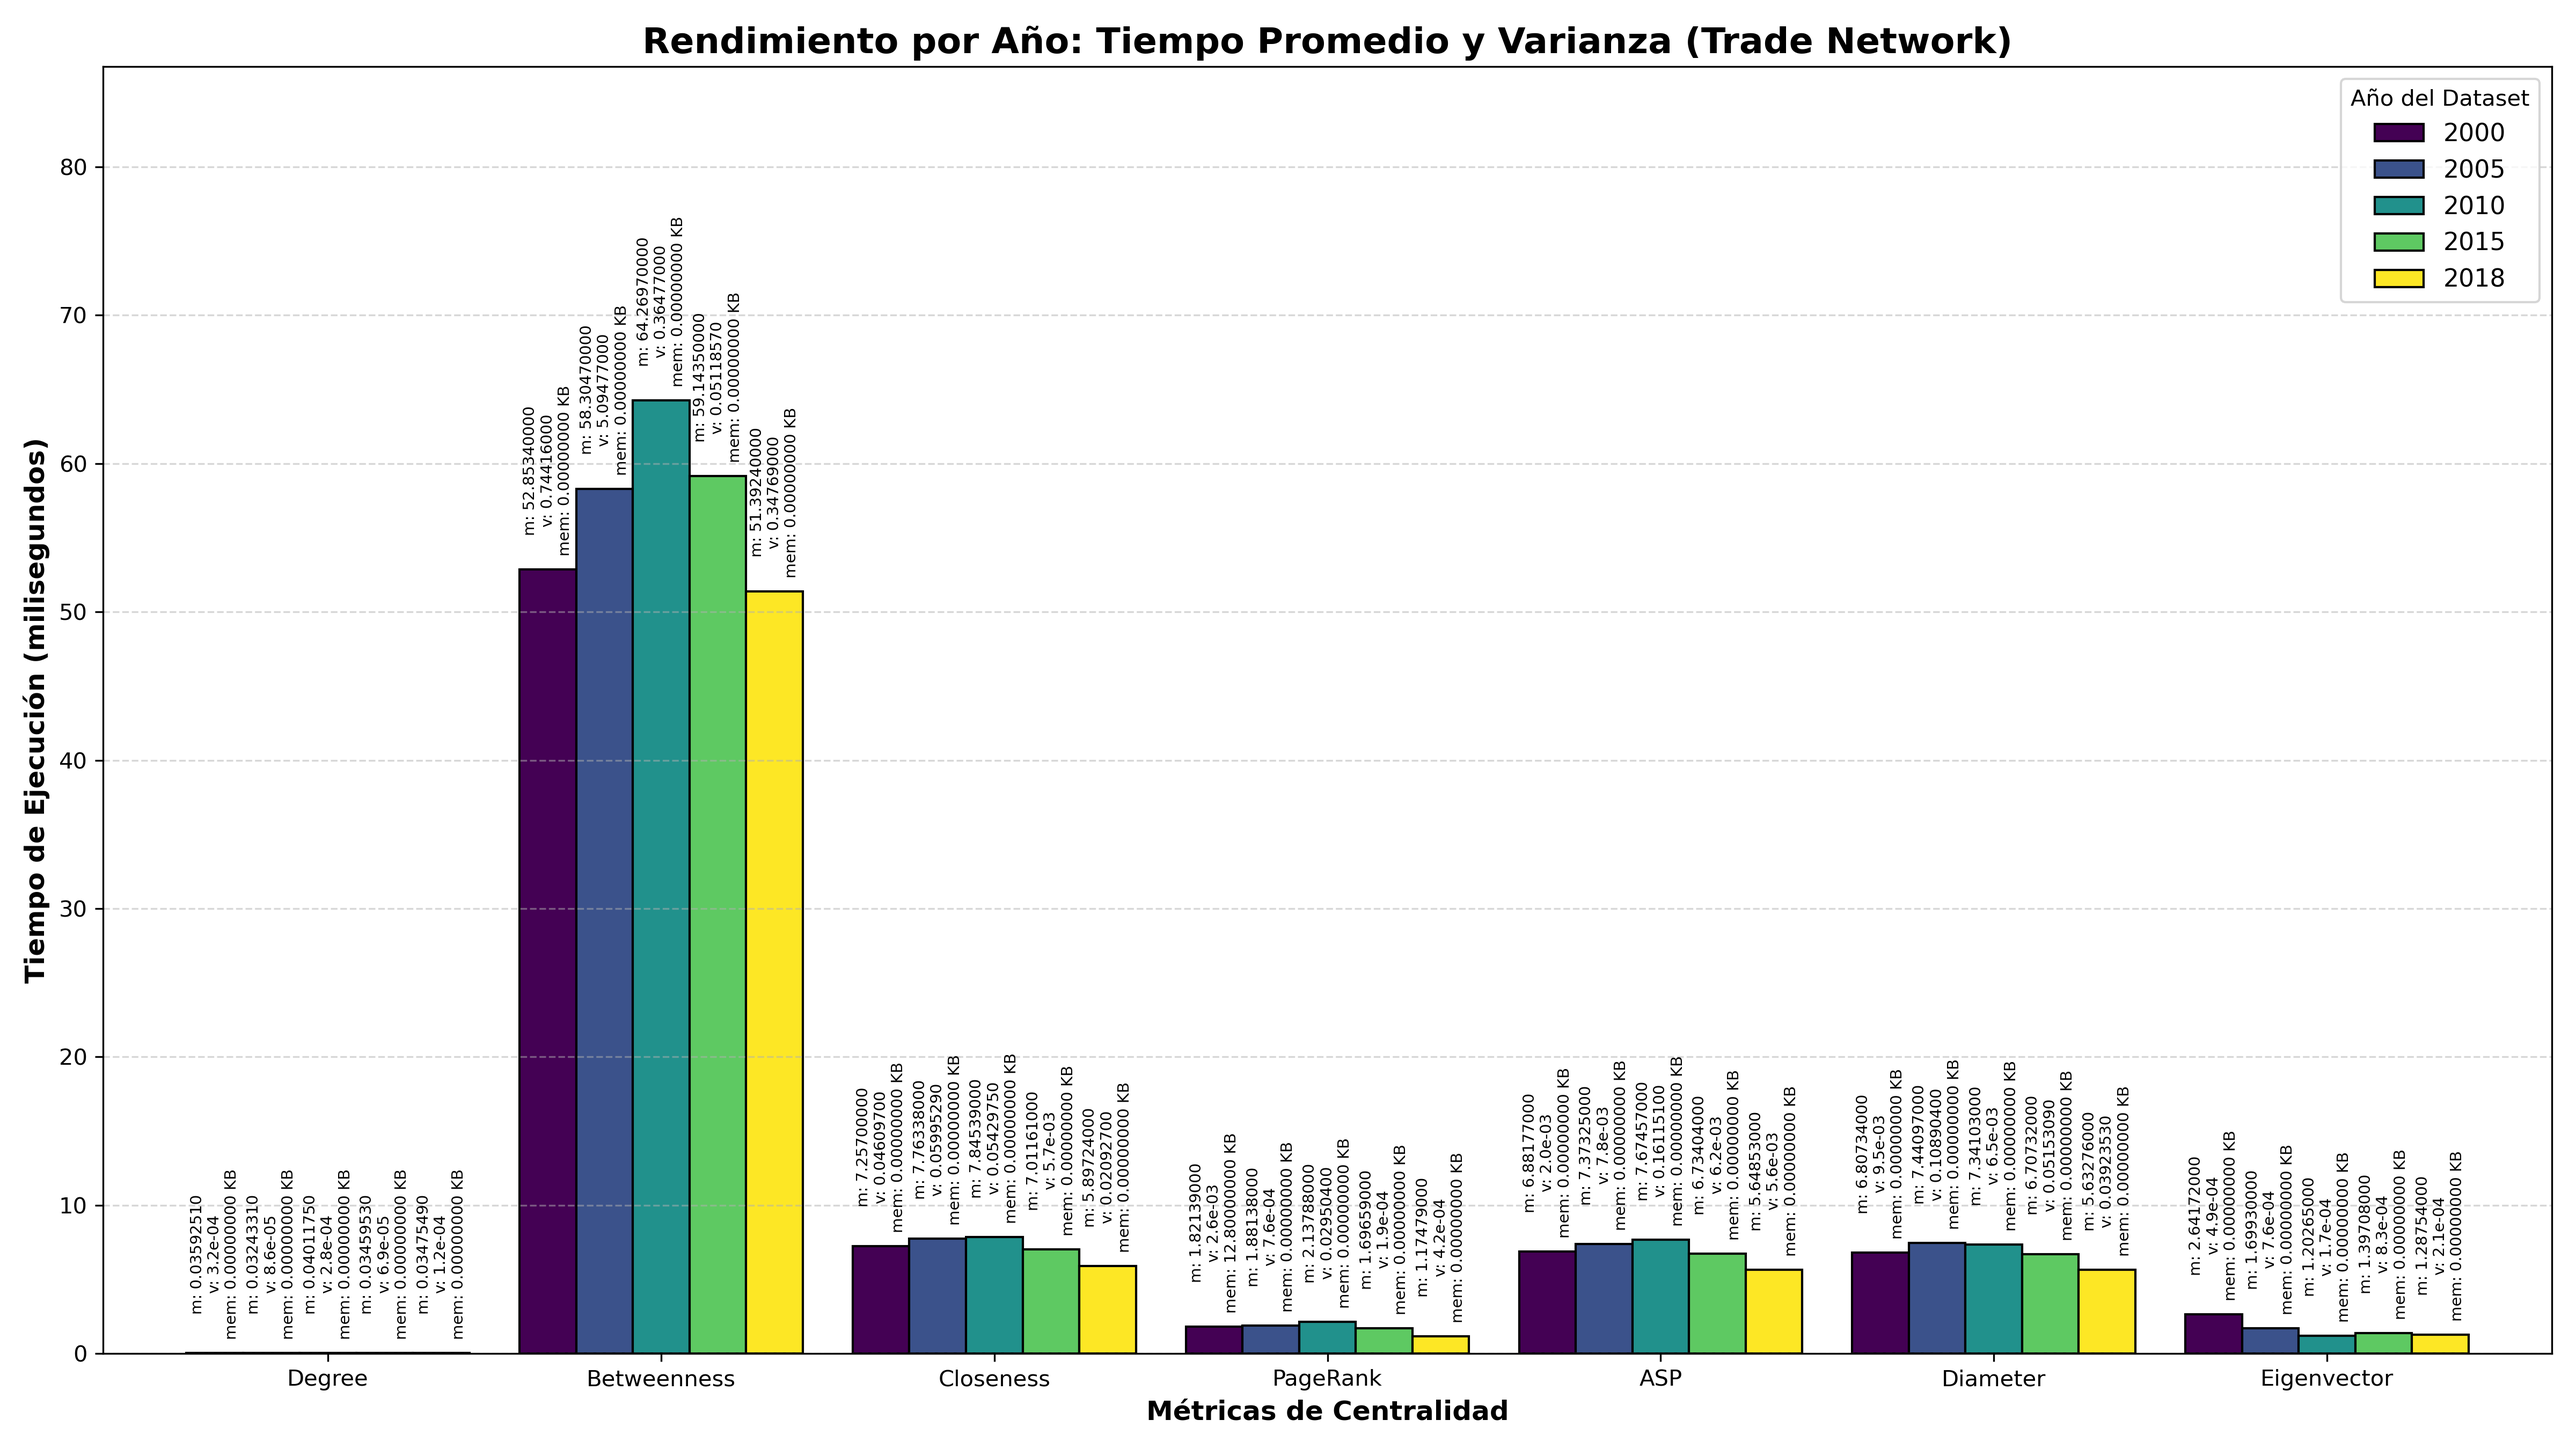
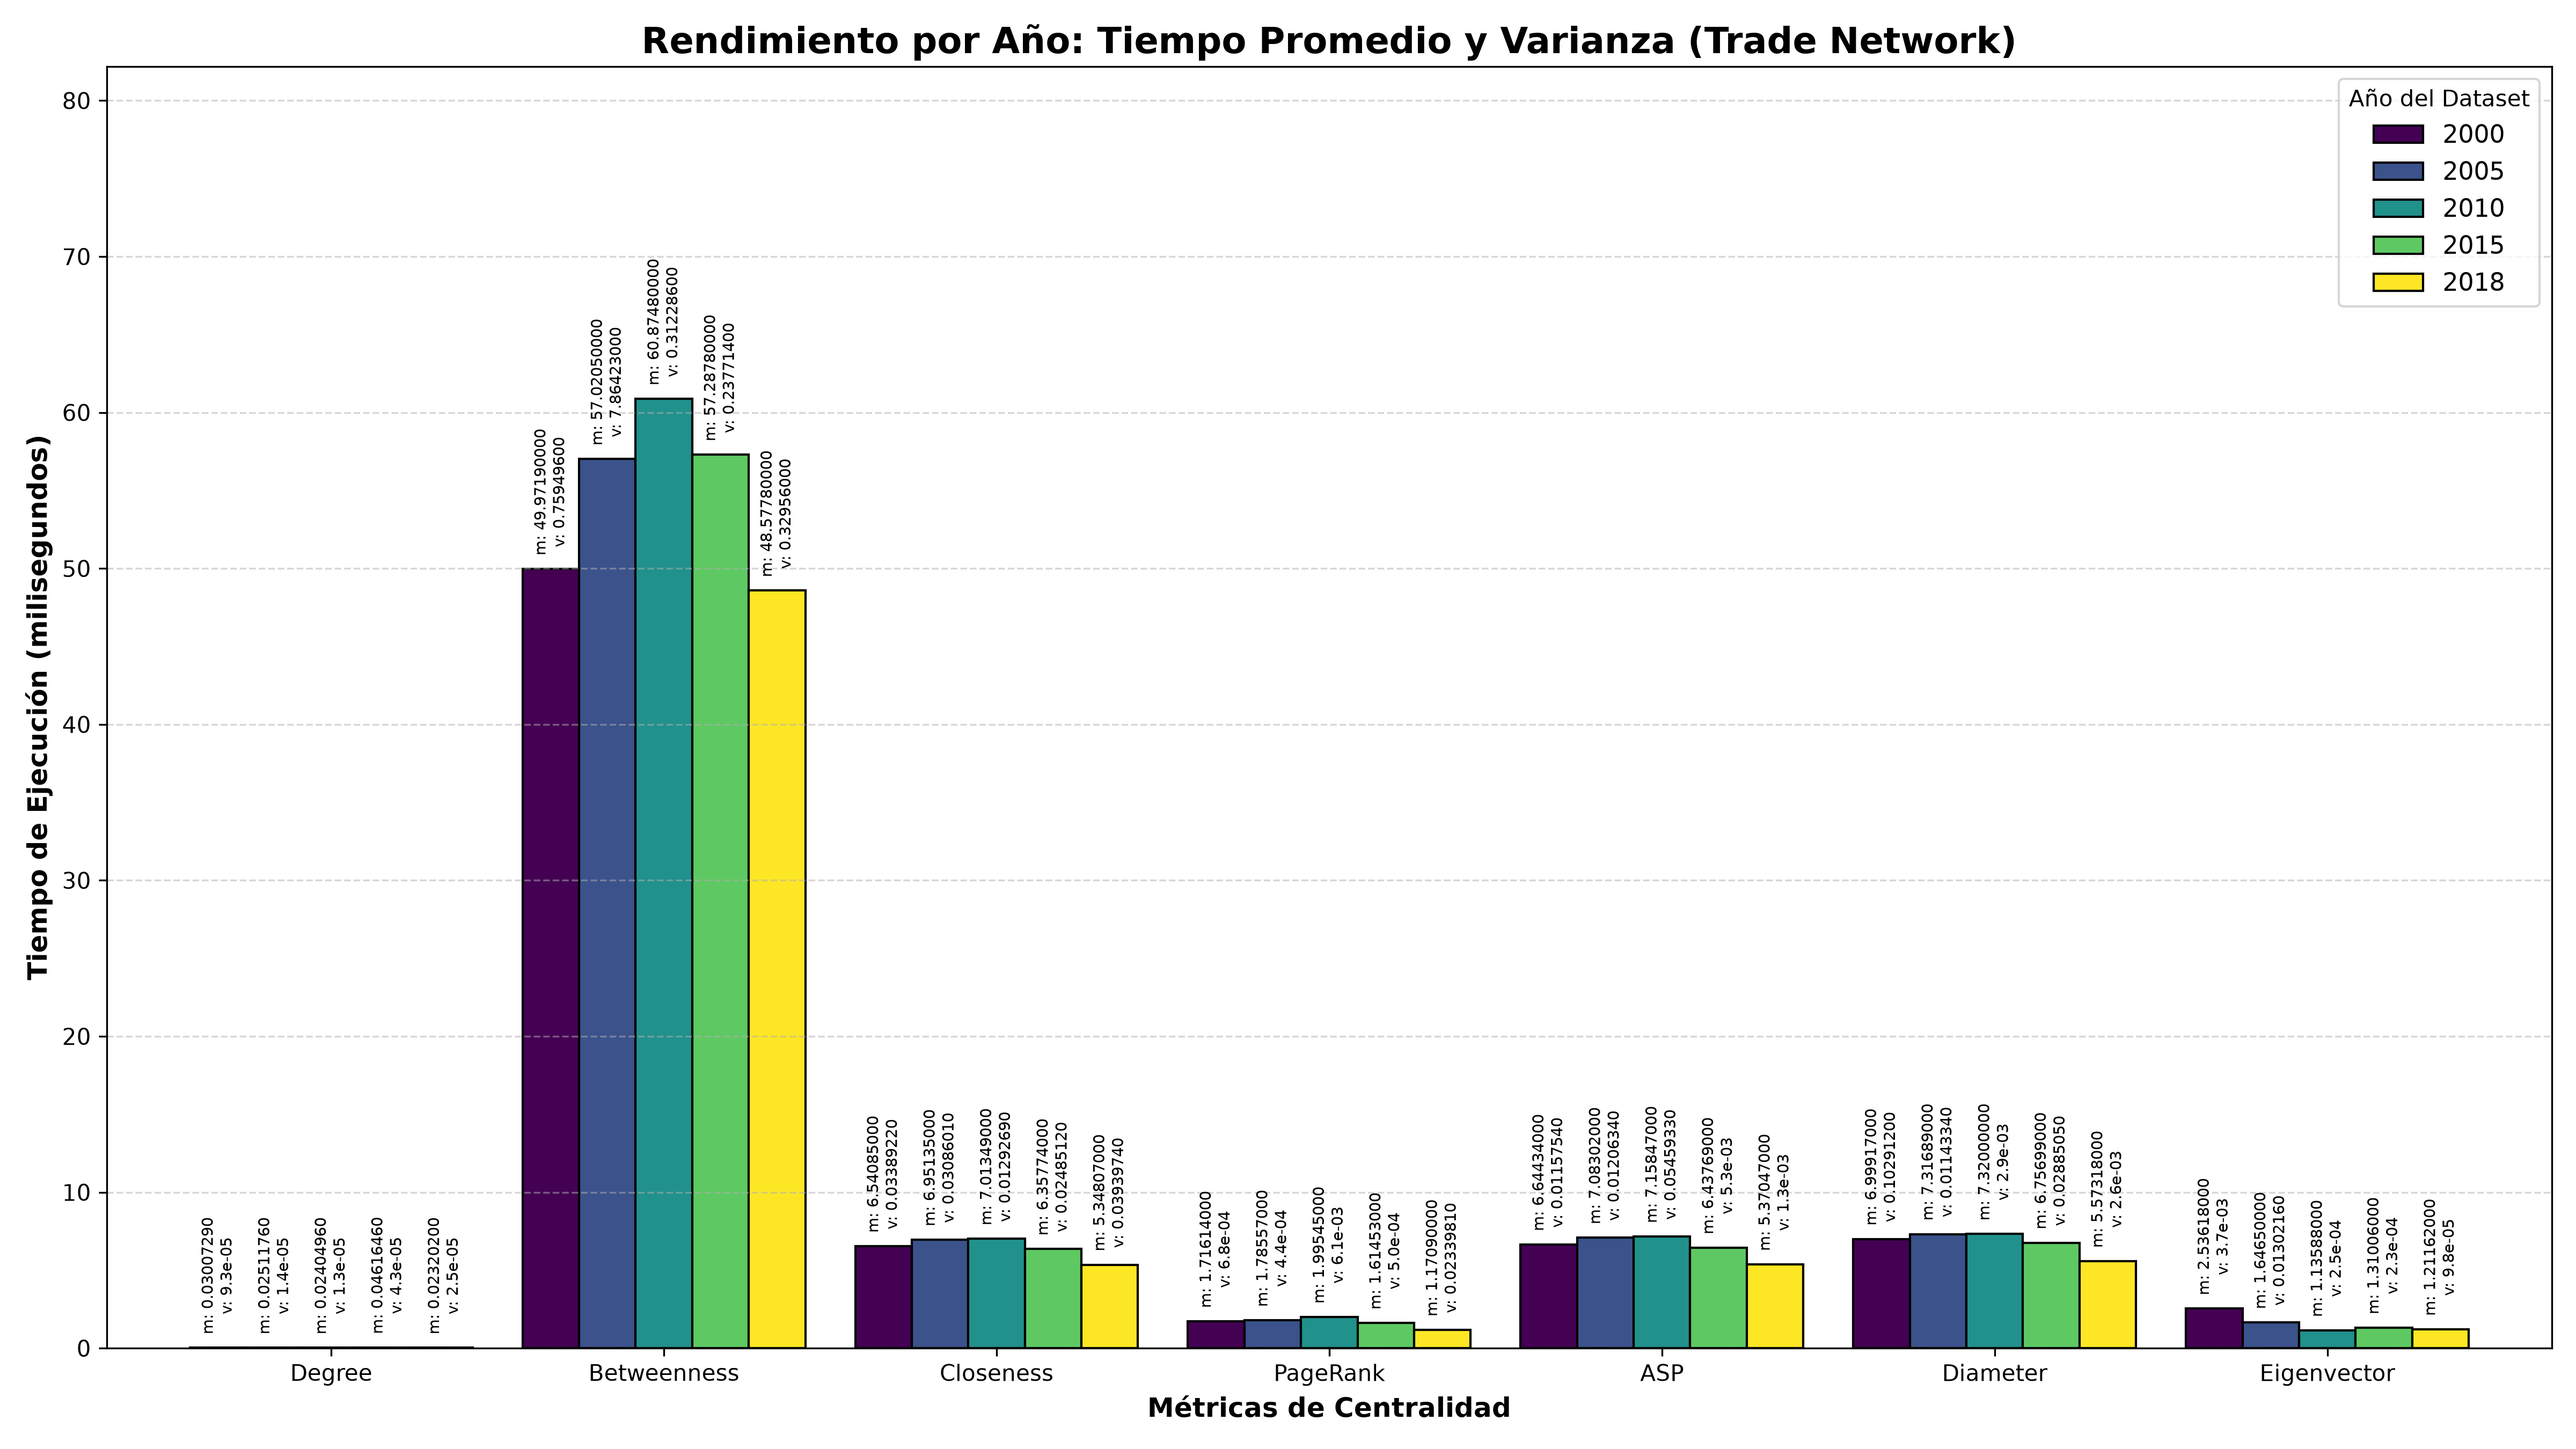
actualizacion graficos
eliminado tracking de memoria en graficos y actualizado README.md

diff --git a/plot_proteinas.py b/plot_proteinas.py
@@ -15,24 +15,19 @@ os.makedirs('graficos', exist_ok=True)
 metricas = ["Degree", "Betweenness", "Closeness", "PageRank", "ASP", "Diameter", "Eigenvector"]
 col_mean = [f"{metrica}_mean" for metrica in metricas]
 col_var = [f"{metrica}_var" for metrica in metricas]
-col_mem = [f"{metrica}_mem_mean" for metrica in metricas]
 
 df_means = df[col_mean].copy()
 df_vars = df[col_var].copy()
-df_mem = df[col_mem].copy()
 
 df_means.columns = metricas
 df_vars.columns = metricas
-df_mem.columns = metricas
 
 # Como el dataset de proteínas tiene solo 1 red, indexamos con su nombre
 df_means.index = ['Yeast (Levadura)']
 df_vars.index = ['Yeast (Levadura)']
-df_mem.index = ['Yeast (Levadura)']
 
 # Convertimos la fila única en una serie para graficar por métrica
 serie_means = df_means.iloc[0]
-serie_mem = df_mem.iloc[0]
 
 # Generación del lienzo gráfico
 plt.figure(figsize=(16, 9))
@@ -55,11 +50,10 @@ plt.grid(axis='y', linestyle='--', alpha=0.5)
 for j, bar in enumerate(ax.patches):
     mean_val = bar.get_height()
     var_val = df_vars.iloc[0, j]
-    mem_val = serie_mem.iloc[j]
 
     if mean_val > 0:
         str_var = f"{var_val:.1e}" if var_val < 0.01 else f"{var_val:.2f}"
-        texto_etiqueta = f"m: {mean_val:.2f}\nv: {str_var}\nmem: {mem_val:.4f} KB"
+        texto_etiqueta = f"m: {mean_val:.2f}\nv: {str_var}"
 
         ax.annotate(texto_etiqueta,
                     (bar.get_x() + bar.get_width() / 2., mean_val),

diff --git a/plot_trade.py b/plot_trade.py
@@ -17,19 +17,15 @@ anios = ['2000', '2005', '2010', '2015', '2018']
 
 columnas_mean = [f"{metrica}_mean" for metrica in metricas]
 columnas_var = [f"{metrica}_var" for metrica in metricas]
-columnas_mem = [f"{metrica}_mem_mean" for metrica in metricas]
 
 # Separamos las columnas por nombre para evitar depender de la posición
 df_means = df[columnas_mean].copy()
 df_vars = df[columnas_var].copy()
-df_mem = df[columnas_mem].copy()
 
 df_means.columns = metricas
 df_vars.columns = metricas
-df_mem.columns = metricas
 df_means.index = anios
 df_vars.index = anios
-df_mem.index = anios
 
 # Transponemos para agrupar por métrica en el eje X
 df_means_trans = df_means.T
@@ -53,12 +49,11 @@ for i, container in enumerate(ax.containers):
         metrica = metricas[j]
         mean_val = bar.get_height()
         var_val = df_vars.loc[anio, metrica]
-        mem_val = df_mem.loc[anio, metrica]
         
         if mean_val > 0:
             # Formateamos la varianza en formato científico si es muy pequeña, o decimal estándar
             str_var = f"{var_val:.1e}" if var_val < 0.01 else f"{var_val:.8f}"
-            texto_etiqueta = f"m: {mean_val:.8f}\nv: {str_var}\nmem: {mem_val:.8f} KB"
+            texto_etiqueta = f"m: {mean_val:.8f}\nv: {str_var}"
             
             ax.annotate(texto_etiqueta, 
                         (bar.get_x() + bar.get_width() / 2., mean_val), 

diff --git a/README.md b/README.md
@@ -90,6 +90,13 @@ python3 plot_memoria.py csv/memoria_trade.csv
 python3 plot_memoria.py csv/memoria_prot.csv
 ```
 
+**Gráficos de rendimiento algorítmico**
+
+```bash
+python3 plot_trade.py csv/resultados_trade.csv
+python3 plot_proteinas.py csv/resultados_prot.csv
+```
+
 **Gráficos de perturbación (eliminación y aumento de aristas):**
 ```bash
 python3 plot_perturbacion.py csv/resultados_perturbacion_trade.csv
